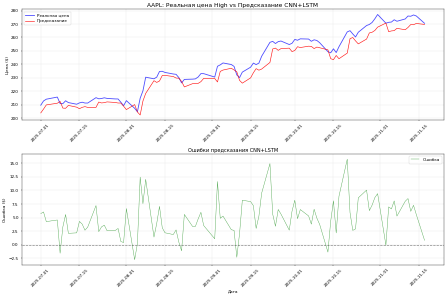
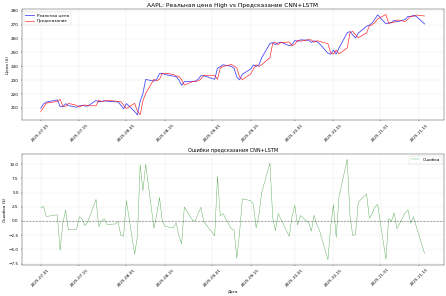
UsdEur_Diifs_WorkingDay

diff --git a/reduced_cnn_lstm_integration.py b/reduced_cnn_lstm_integration.py
@@ -39,79 +39,59 @@ def compute_bollinger_bands(prices, window=20):
     lower_band = sma - (std * 2)
     return upper_band, lower_band
 
-def prepare_data(symbol='AAPL', period='5y', seq_length=60):
+def prepare_data(symbol='AAPL', period='5y', seq_length=60, use_local_data=False):
     """Подготовка данных для CNN+LSTM модели"""
-    data = yf.download(symbol, period=period)
+    if use_local_data:
+        # Используем локальный файл с данными
+        data_csv = f'./EURUSD_D.csv'
+        df = pd.read_csv(
+            data_csv,
+            names=["date", "time", "open", "high", "low", "close", "volume"],
+            parse_dates=["date"],
+            usecols=["date", "open", "high", "low", "close", "volume"]
+        )
+        # Переименовываем столбцы для совместимости с остальным кодом
+        df = df.rename(columns={'high': 'High', 'open': 'Open', 'low': 'Low', 'close': 'Close', 'volume': 'Volume'})
 
-    # Создаем фичи
-    data['Returns'] = data['High'].pct_change()
-    data['EMA_10'] = data['High'].ewm(span=10).mean()
-    data['EMA_50'] = data['High'].ewm(span=50).mean()
-    data['Volatility'] = data['Returns'].rolling(20).std()
-    data['Volume_EMA'] = data['Volume'].ewm(span=20).mean()
+        # Оставляем только рабочие дни
+        df = df[df['date'].dt.dayofweek < 5]  # 0-4 represents Monday to Friday
 
-    # Добавляем технические индикаторы
-    data['RSI'] = compute_rsi(data['High'])
-    data['MACD'] = compute_macd(data['High'])
-    bb_upper, bb_lower = compute_bollinger_bands(data['High'])
-    data['BB_Upper'] = bb_upper
-    data['BB_Lower'] = bb_lower
+        # Считаем диффы
+        df["diff_high"] = df["High"].diff()
+        df["diff_close"] = df["Close"].diff()
 
-    # Дополнительные признаки
-    data['High_Low_Pct'] = (data['High'] - data['Low']) / data['High']
-    data['Price_Change'] = (data['High'] - data['Open']) / data['Open']
-    data['Volume_Change'] = data['Volume'].pct_change()
-    data['Momentum'] = data['High'] - data['High'].shift(10)  # 10-дневный моментум
+        # Удаляем строки с NaN после diff
+        df = df.dropna()
 
-    # Средние скользящие как дополнительные фичи
-    data['SMA_20'] = data['High'].rolling(window=20).mean()
-    data['SMA_200'] = data['High'].rolling(window=200).mean()
-    data['MA_Ratio'] = data['SMA_20'] / data['SMA_200']  # Отношение краткосрочной к долгосрочной MA
+        data = df.set_index('date')
 
-    # Позиция внутри Bollinger Bands (избегаем деления на 0)
-    bb_range = data['BB_Upper'] - data['BB_Lower']
-    bb_range = bb_range.replace(0, np.nan)  # Заменяем 0 на NaN, чтобы избежать деления на 0
-    bb_position = (data['High'] - data['BB_Lower']) / bb_range
-    bb_position = bb_position.fillna(0.5)  # Заполняем NaN значением 0.5 (середина диапазона)
-    # Убедимся, что bb_position - это одномерная серия, а не DataFrame
-    if isinstance(bb_position, pd.DataFrame):
-        bb_position = bb_position.iloc[:, 0]  # Берем первый столбец
-    data['BB_Position'] = bb_position
+        # Создаем фичи на основе диффов
+        data['Diff_High'] = data["diff_high"]
+        data['Diff_Close'] = data["diff_close"]
+    else:
+        # Используем прежний источник данных
+        data = yf.download(symbol, period=period)
 
-    # НОВЫЕ признаки для улучшения DA
-    # Адаптивная волатильность
-    data['Adaptive_Volatility'] = data['Returns'].rolling(20).std() / data['Returns'].rolling(50).std()
-
-    # Сила тренда
-    data['Trend_Strength'] = (data['High'] - data['Low']).rolling(10).mean() / data['High'].rolling(50).mean()
-
-    # Относительная сила цены
-    data['Price_Strength'] = (data['High'] - data['Low'].rolling(20).min()) / (data['High'].rolling(20).max() - data['Low'].rolling(20).min())
-
-    # Объемно-взвешенная цена
-    vwap = (data['High'] * data['Volume']).rolling(20).sum() / data['Volume'].rolling(20).sum()
-    data['VWAP'] = vwap
-    data['Price_to_VWAP'] = data['High'] / vwap
-
-    # Моментум волатильности
-    data['Volatility_Momentum'] = data['Volatility'] - data['Volatility'].shift(5)
+        # Создаем фичи на основе диффов
+        data['Diff_High'] = data['High'].diff().dropna()
+        data['Diff_Close'] = data['Close'].diff().dropna()
 
     # Удаляем строки с NaN значениями только после всех вычислений
     data = data.dropna()
 
-    features = ['High', 'Volume', 'Returns', 'EMA_10', 'EMA_50',
-                'Volatility', 'Volume_EMA', 'RSI', 'MACD', 'BB_Position',
-                'High_Low_Pct', 'Price_Change', 'Volume_Change', 'Momentum', 'MA_Ratio',
-                'Adaptive_Volatility', 'Trend_Strength', 'Price_Strength', 'Price_to_VWAP', 'Volatility_Momentum']
+    # Проверяем, что данные отсортированы по дате
+    data = data.sort_index()
+
+    features = ['Diff_High', 'Diff_Close']
 
     # Разделяем данные
     total_size = len(data)
-    train_size = int(total_size * 0.7)
-    val_size = int(total_size * 0.15)
+    train_size = int(total_size * 0.65)  # Уменьшили до 65%
+    val_size = int(total_size * 0.15)    # Оставили 15% для валидации
 
     train_data = data.iloc[:train_size]
     val_data = data.iloc[train_size:train_size+val_size]
-    test_data = data.iloc[train_size+val_size:]
+    test_data = data.iloc[train_size+val_size:]  # Оставшиеся 20% для теста
 
     # Масштабируем
     scaler = StandardScaler()
@@ -400,7 +380,7 @@ def run_reduced_cnn_lstm_experiment():
 
     # Загружаем данные
     print("Загрузка данных...")
-    data_tuple, original_features = prepare_data('AAPL', period='5y')
+    data_tuple, original_features = prepare_data('AAPL', period='5y', use_local_data=True)
 
     (X_train, X_val, X_test, y_train, y_val, y_test,
      dates_train, dates_val, dates_test, scaler, data,
@@ -412,10 +392,20 @@ def run_reduced_cnn_lstm_experiment():
     print(f"  Тестовые: {X_test.shape} ({len(dates_test)} дат)")
     print(f" Период данных: {data.index[0].strftime('%Y-%m-%d')} - {data.index[-1].strftime('%Y-%m-%d')}")
 
-    # Создаем полную CNN+LSTM модель для анализа важности признаков
+    # Выводим начальную дату в данных
+    print(f"Первая дата в файле: 2017.08.14")
+    print(f"Первая дата в обработанных данных: {data.index[0].strftime('%Y-%m-%d')}")
+    print(f"Дата начала периода обучения: {data.index[0].strftime('%Y-%m-%d')}")
+    print(f"Дата окончания периода обучения: {data.index[int(len(data) * 0.65) - 1].strftime('%Y-%m-%d')}")
+    print(f"Дата начала периода валидации: {data.index[int(len(data) * 0.65)].strftime('%Y-%m-%d')}")
+    print(f"Дата окончания периода валидации: {data.index[int(len(data) * 0.65) + int(len(data) * 0.15) - 1].strftime('%Y-%m-%d')}")
+    print(f"Дата начала периода тестирования: {data.index[int(len(data) * 0.65) + int(len(data) * 0.15)].strftime('%Y-%m-%d')}")
+    print(f"Дата окончания периода тестирования: {data.index[-1].strftime('%Y-%m-%d')}")
+
+   # Создаем полную CNN+LSTM модель для анализа важности признаков
     print("\nСоздание полной модели для анализа важности признаков...")
     full_model = StockCNNLSTM(
-        input_size=20,  # Количество признаков
+        input_size=2,  # Количество признаков
         seq_length=60,
         cnn_channels=[32, 64, 128, 256],
         lstm_hidden_size=256,
